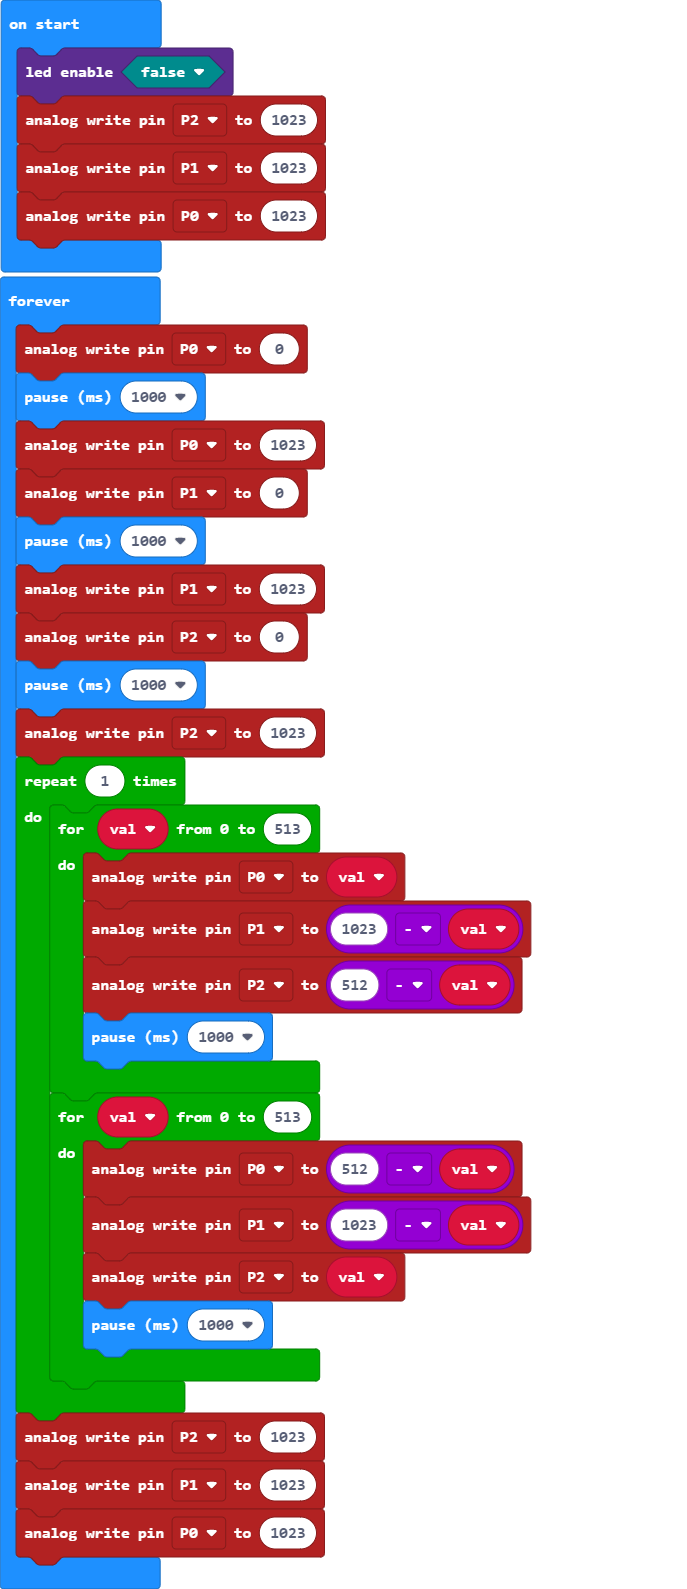
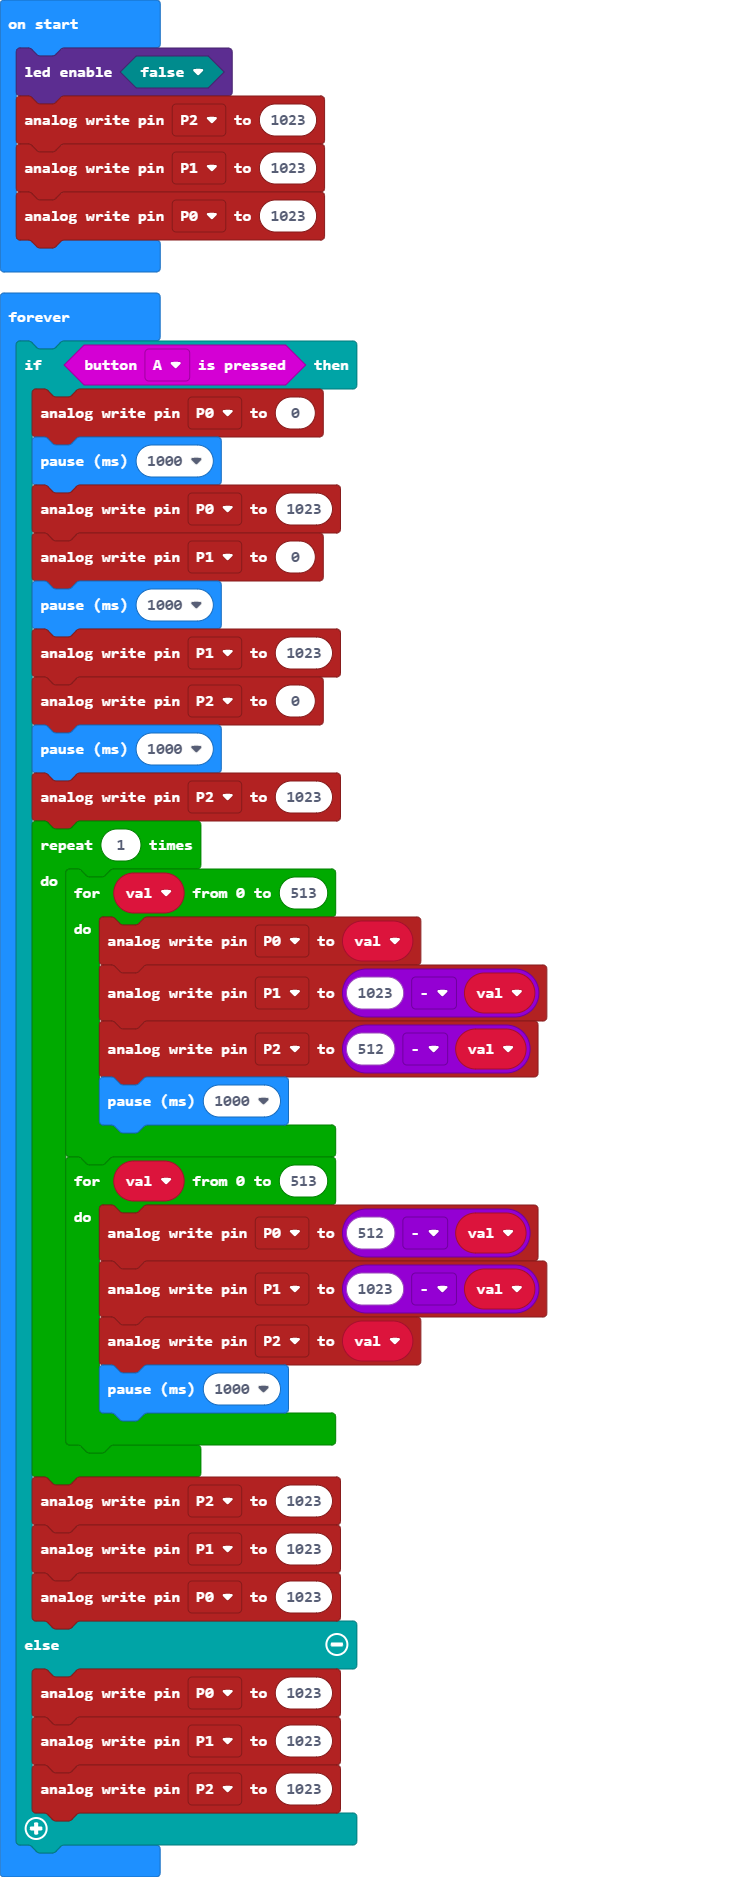
made changes to do a input and output

diff --git a/main.ts b/main.ts
@@ -3,30 +3,36 @@ pins.analogWritePin(AnalogPin.P2, 1023)
 pins.analogWritePin(AnalogPin.P1, 1023)
 pins.analogWritePin(AnalogPin.P0, 1023)
 basic.forever(function () {
-    pins.analogWritePin(AnalogPin.P0, 0)
-    basic.pause(1000)
-    pins.analogWritePin(AnalogPin.P0, 1023)
-    pins.analogWritePin(AnalogPin.P1, 0)
-    basic.pause(1000)
-    pins.analogWritePin(AnalogPin.P1, 1023)
-    pins.analogWritePin(AnalogPin.P2, 0)
-    basic.pause(1000)
-    pins.analogWritePin(AnalogPin.P2, 1023)
-    for (let index = 0; index < 1; index++) {
-        for (let val = 0; val <= 513; val++) {
-            pins.analogWritePin(AnalogPin.P0, val)
-            pins.analogWritePin(AnalogPin.P1, 1023 - val)
-            pins.analogWritePin(AnalogPin.P2, 512 - val)
-            basic.pause(1000)
+    if (input.buttonIsPressed(Button.A)) {
+        pins.analogWritePin(AnalogPin.P0, 0)
+        basic.pause(1000)
+        pins.analogWritePin(AnalogPin.P0, 1023)
+        pins.analogWritePin(AnalogPin.P1, 0)
+        basic.pause(1000)
+        pins.analogWritePin(AnalogPin.P1, 1023)
+        pins.analogWritePin(AnalogPin.P2, 0)
+        basic.pause(1000)
+        pins.analogWritePin(AnalogPin.P2, 1023)
+        for (let index = 0; index < 1; index++) {
+            for (let val = 0; val <= 513; val++) {
+                pins.analogWritePin(AnalogPin.P0, val)
+                pins.analogWritePin(AnalogPin.P1, 1023 - val)
+                pins.analogWritePin(AnalogPin.P2, 512 - val)
+                basic.pause(1000)
+            }
+            for (let val = 0; val <= 513; val++) {
+                pins.analogWritePin(AnalogPin.P0, 512 - val)
+                pins.analogWritePin(AnalogPin.P1, 1023 - val)
+                pins.analogWritePin(AnalogPin.P2, val)
+                basic.pause(1000)
+            }
         }
-        for (let val = 0; val <= 513; val++) {
-            pins.analogWritePin(AnalogPin.P0, 512 - val)
-            pins.analogWritePin(AnalogPin.P1, 1023 - val)
-            pins.analogWritePin(AnalogPin.P2, val)
-            basic.pause(1000)
-        }
+        pins.analogWritePin(AnalogPin.P2, 1023)
+        pins.analogWritePin(AnalogPin.P1, 1023)
+        pins.analogWritePin(AnalogPin.P0, 1023)
+    } else {
+        pins.analogWritePin(AnalogPin.P0, 1023)
+        pins.analogWritePin(AnalogPin.P1, 1023)
+        pins.analogWritePin(AnalogPin.P2, 1023)
     }
-    pins.analogWritePin(AnalogPin.P2, 1023)
-    pins.analogWritePin(AnalogPin.P1, 1023)
-    pins.analogWritePin(AnalogPin.P0, 1023)
 })
